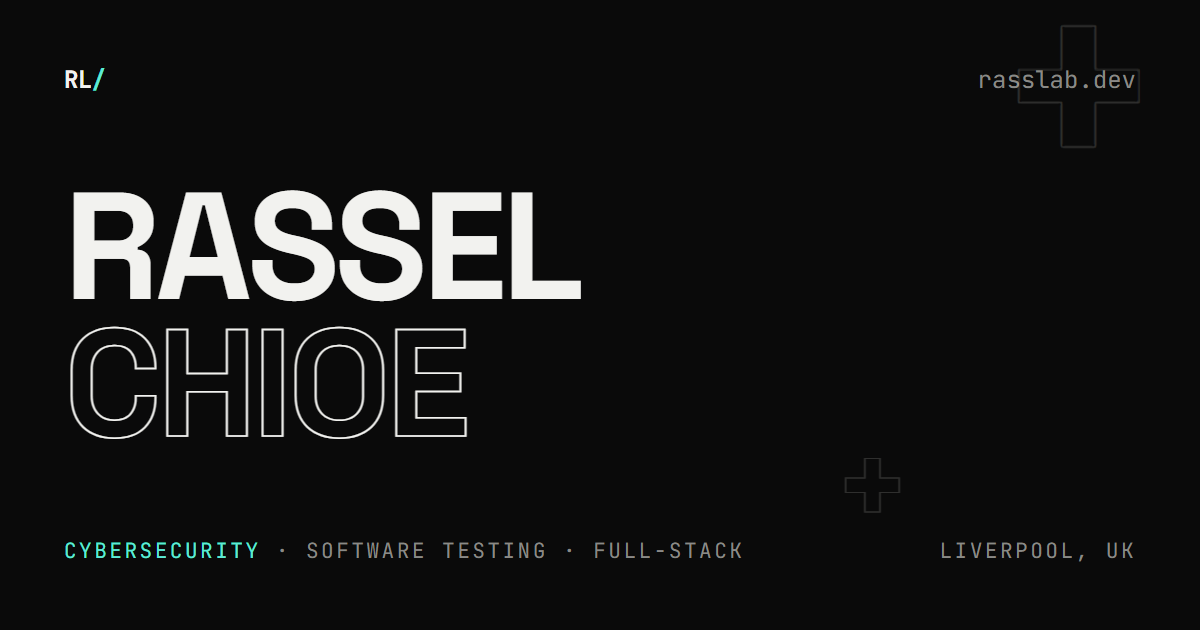
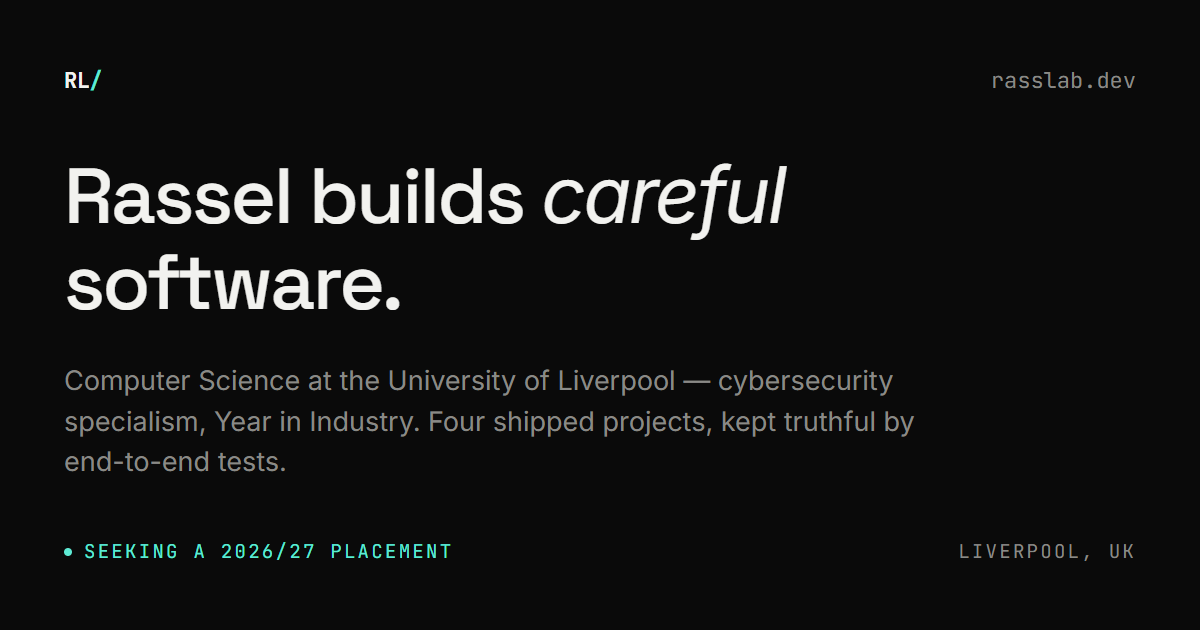
Rebuild the OG card around the new homepage design
The card still carried the old page's identity: huge outlined RASSEL / CHIOE
display type and plus-mark motifs, none of which survive on the redesigned
homepage. Anyone arriving from a shared link met one design and landed on
another.

It now mirrors the page: the identity line, the Space Grotesk headline with its
Inter italic run, the muted bio, and a mono footer. The status dot is a plain
span rather than .live-dot — that one blinks, and a screenshot can land on the
invisible half of the keyframe.

The regeneration note now says to screenshot the built output rather than the
dev server, which sidesteps the dev toolbar appearing in the capture instead of
having to remember to strip it.

public/og.png is regenerated at 1200×630, and og:image:alt now describes what
the card actually says. .text-outline and .text-outline-faint were kept solely
for the old card and are now unused, so they go too.

Claude-Session: https://claude.ai/code/session_01TRickSdkfrEVDcnuMvbbRL

diff --git a/src/styles/global.css b/src/styles/global.css
@@ -64,27 +64,7 @@ a {
   border-radius: 2px;
 }
 
-/* ---------- typographic motifs (still used by the /og card) ---------- */
-
-.text-outline {
-  color: transparent;
-  -webkit-text-stroke: 1.5px var(--ink);
-}
-@supports not (-webkit-text-stroke: 1px red) {
-  .text-outline {
-    color: var(--ink);
-  }
-}
-
-.text-outline-faint {
-  color: transparent;
-  -webkit-text-stroke: 1px rgba(242, 242, 239, 0.16);
-}
-@supports not (-webkit-text-stroke: 1px red) {
-  .text-outline-faint {
-    color: rgba(242, 242, 239, 0.08);
-  }
-}
+/* ---------- link hover ---------- */
 
 .link-hover {
   transition: color 0.2s ease;
@@ -221,10 +201,6 @@ h2[data-reveal].is-revealed {
   opacity: 1;
   transform: none;
 }
-
-/* ---------- project row number → arrow ----------
-   Scoped to a:hover rather than a group-hover utility, which excludes the one
-   row that is a <div> because it has nowhere to link to. */
 
 /* ---------- project rows ----------
    Each destination is its own link so "Live · GitHub" is two targets, not one
